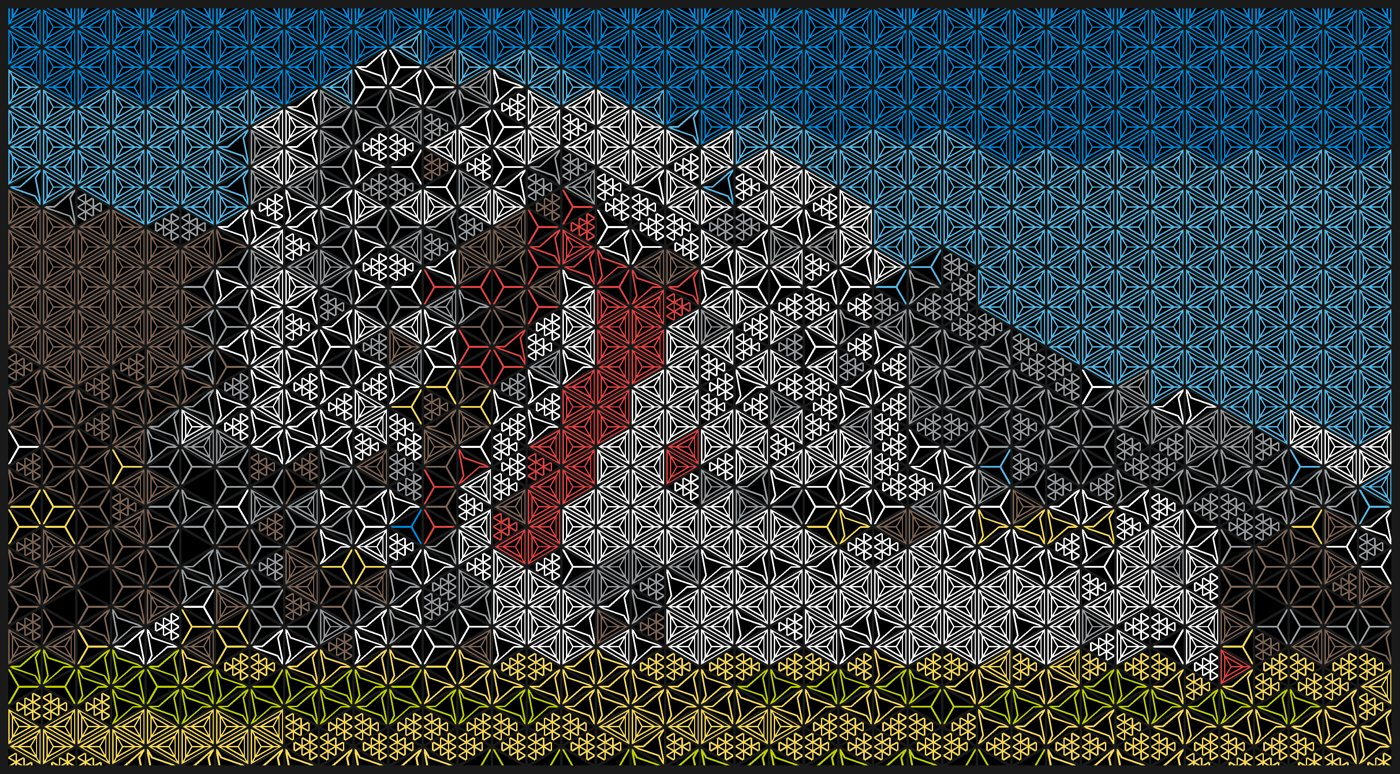
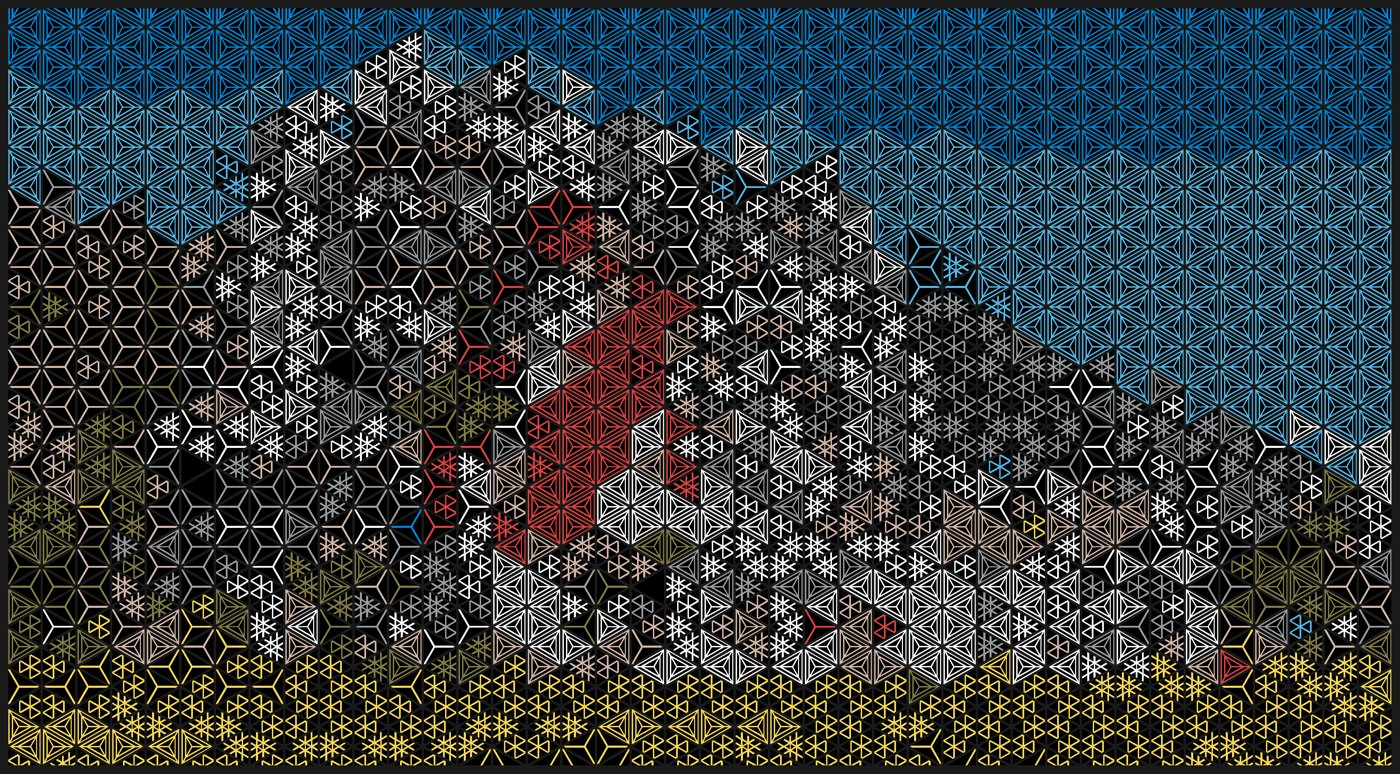
Keep thin contrasting features: line boost in cell sampling (default 4)
Averaging a cell erased cables, masts and outlines thinner than a cell. If a small part of
a cell differs sharply from its median colour, the cell is pushed towards that colour so the
feature survives as a one-cell line. Exposed as --line-boost / UI field; gallery rebuilt.

diff --git a/examples/gallery/index.html b/examples/gallery/index.html
@@ -2,26 +2,26 @@
 <style>body{font-family:system-ui;background:#1b1b1f;color:#eee;margin:20px} .card{margin-bottom:40px}
 .row{display:flex;gap:12px;align-items:flex-start;flex-wrap:wrap} img{max-width:46vw;max-height:70vh;border-radius:6px}
 h2{color:#d2ac86} .meta{font-size:13px;color:#bbb} .sw{display:inline-block;width:12px;height:12px;border:1px solid #666;margin-right:2px}</style></head><body>
-<h1>Before / after</h1><p class='meta'>Left: source as fitted to the lattice. Right: the planned panel drawn with the real insert silhouettes. Every insert is a kumiko line pattern (2 mm strips, openings at least 2.5 mm, at most 65% covered) in one of 8 purchasable Bambu PLA filaments over a black background insert, in a dark frame; a cell's tone comes only from line density. At most 4 distinct patterns per panel. Shown at 40 and 60 columns; the mm size follows the pitch (50 mm here). Rule of thumb: 40 columns reads from across a room, 60 is clearly the picture. Simple, bold subjects work best.</p>
+<h1>Before / after</h1><p class='meta'>Left: source as fitted to the lattice. Right: the planned panel drawn with the real insert silhouettes. Every insert is a kumiko line pattern (2 mm strips, openings at least 2.5 mm, at most 65% covered) in one of 8 purchasable Bambu PLA filaments over a black background insert, in a dark frame; a cell's tone comes only from line density. At most 4 distinct patterns per panel; thin-feature boost 4. Shown at 40 and 60 columns; the mm size follows the pitch (50 mm here). Rule of thumb: 40 columns reads from across a room, 60 is clearly the picture. Simple, bold subjects work best.</p>
 <h2>Line patterns available at 50 mm pitch</h2><img src='density_ladder.png' style='max-width:96vw'>
 <div class='card'><h2>golden_gate_bridge</h2>
-<h3 style='font-size:14px'>default_40cols: 40 x 26, 1747.1 x 1318.0 mm, 2120 cells, 2062 pattern inserts <span class='sw' style='background:#FFFFFF'></span><span class='sw' style='background:#A3D8E1'></span><span class='sw' style='background:#5B6579'></span><span class='sw' style='background:#757575'></span><span class='sw' style='background:#9D432C'></span><span class='sw' style='background:#56B7E6'></span><span class='sw' style='background:#E8DBB7'></span><span class='sw' style='background:#FF6A13'></span></h3><div class='row'><img src='golden_gate_bridge_source.jpg'><img src='golden_gate_bridge_default_40cols.jpg'></div>
-<h3 style='font-size:14px'>60cols: 60 x 39, 2613.1 x 1968.0 mm, 4740 cells, 4672 pattern inserts <span class='sw' style='background:#FFFFFF'></span><span class='sw' style='background:#A3D8E1'></span><span class='sw' style='background:#5B6579'></span><span class='sw' style='background:#56B7E6'></span><span class='sw' style='background:#E8DBB7'></span><span class='sw' style='background:#C12E1F'></span><span class='sw' style='background:#4D3324'></span><span class='sw' style='background:#FF6A13'></span></h3><div class='row'><img src='golden_gate_bridge_source.jpg'><img src='golden_gate_bridge_60cols.jpg'></div>
+<h3 style='font-size:14px'>default_40cols: 40 x 26, 1747.1 x 1318.0 mm, 2120 cells, 2086 pattern inserts <span class='sw' style='background:#FFFFFF'></span><span class='sw' style='background:#A3D8E1'></span><span class='sw' style='background:#5B6579'></span><span class='sw' style='background:#C12E1F'></span><span class='sw' style='background:#E8DBB7'></span><span class='sw' style='background:#56B7E6'></span><span class='sw' style='background:#9D432C'></span><span class='sw' style='background:#F99963'></span></h3><div class='row'><img src='golden_gate_bridge_source.jpg'><img src='golden_gate_bridge_default_40cols.jpg'></div>
+<h3 style='font-size:14px'>60cols: 60 x 39, 2613.1 x 1968.0 mm, 4740 cells, 4631 pattern inserts <span class='sw' style='background:#FFFFFF'></span><span class='sw' style='background:#A3D8E1'></span><span class='sw' style='background:#5B6579'></span><span class='sw' style='background:#E8DBB7'></span><span class='sw' style='background:#56B7E6'></span><span class='sw' style='background:#9D432C'></span><span class='sw' style='background:#C12E1F'></span><span class='sw' style='background:#FF6A13'></span></h3><div class='row'><img src='golden_gate_bridge_source.jpg'><img src='golden_gate_bridge_60cols.jpg'></div>
 </div>
 <div class='card'><h2>lighthouse</h2>
-<h3 style='font-size:14px'>default_40cols: 40 x 19, 1747.1 x 968.0 mm, 1560 cells, 1555 pattern inserts <span class='sw' style='background:#FFFFFF'></span><span class='sw' style='background:#0086D6'></span><span class='sw' style='background:#56B7E6'></span><span class='sw' style='background:#9B9EA0'></span><span class='sw' style='background:#F7D959'></span><span class='sw' style='background:#7D6556'></span><span class='sw' style='background:#BECF00'></span><span class='sw' style='background:#DE4343'></span></h3><div class='row'><img src='lighthouse_source.jpg'><img src='lighthouse_default_40cols.jpg'></div>
-<h3 style='font-size:14px'>60cols: 60 x 29, 2613.1 x 1468.0 mm, 3540 cells, 3511 pattern inserts <span class='sw' style='background:#FFFFFF'></span><span class='sw' style='background:#0086D6'></span><span class='sw' style='background:#56B7E6'></span><span class='sw' style='background:#F7D959'></span><span class='sw' style='background:#757575'></span><span class='sw' style='background:#D3B7A7'></span><span class='sw' style='background:#BECF00'></span><span class='sw' style='background:#DE4343'></span></h3><div class='row'><img src='lighthouse_source.jpg'><img src='lighthouse_60cols.jpg'></div>
+<h3 style='font-size:14px'>default_40cols: 40 x 19, 1747.1 x 968.0 mm, 1560 cells, 1556 pattern inserts <span class='sw' style='background:#FFFFFF'></span><span class='sw' style='background:#0086D6'></span><span class='sw' style='background:#56B7E6'></span><span class='sw' style='background:#9B9EA0'></span><span class='sw' style='background:#F7D959'></span><span class='sw' style='background:#D3B7A7'></span><span class='sw' style='background:#847D48'></span><span class='sw' style='background:#DE4343'></span></h3><div class='row'><img src='lighthouse_source.jpg'><img src='lighthouse_default_40cols.jpg'></div>
+<h3 style='font-size:14px'>60cols: 60 x 29, 2613.1 x 1468.0 mm, 3540 cells, 3528 pattern inserts <span class='sw' style='background:#FFFFFF'></span><span class='sw' style='background:#56B7E6'></span><span class='sw' style='background:#0086D6'></span><span class='sw' style='background:#D3B7A7'></span><span class='sw' style='background:#F7D959'></span><span class='sw' style='background:#757575'></span><span class='sw' style='background:#BECF00'></span><span class='sw' style='background:#DE4343'></span></h3><div class='row'><img src='lighthouse_source.jpg'><img src='lighthouse_60cols.jpg'></div>
 </div>
 <div class='card'><h2>red_fuji</h2>
-<h3 style='font-size:14px'>default_40cols: 40 x 23, 1747.1 x 1168.0 mm, 1880 cells, 1859 pattern inserts <span class='sw' style='background:#FF6A13'></span><span class='sw' style='background:#FFFFFF'></span><span class='sw' style='background:#68724D'></span><span class='sw' style='background:#0056B8'></span><span class='sw' style='background:#A3D8E1'></span><span class='sw' style='background:#56B7E6'></span><span class='sw' style='background:#0086D6'></span><span class='sw' style='background:#F99963'></span></h3><div class='row'><img src='red_fuji_source.jpg'><img src='red_fuji_default_40cols.jpg'></div>
-<h3 style='font-size:14px'>60cols: 60 x 35, 2613.1 x 1768.0 mm, 4260 cells, 4201 pattern inserts <span class='sw' style='background:#FFFFFF'></span><span class='sw' style='background:#FF6A13'></span><span class='sw' style='background:#0056B8'></span><span class='sw' style='background:#8E9089'></span><span class='sw' style='background:#56B7E6'></span><span class='sw' style='background:#E8DBB7'></span><span class='sw' style='background:#0086D6'></span><span class='sw' style='background:#F99963'></span></h3><div class='row'><img src='red_fuji_source.jpg'><img src='red_fuji_60cols.jpg'></div>
+<h3 style='font-size:14px'>default_40cols: 40 x 23, 1747.1 x 1168.0 mm, 1880 cells, 1879 pattern inserts <span class='sw' style='background:#FF6A13'></span><span class='sw' style='background:#0086D6'></span><span class='sw' style='background:#A3D8E1'></span><span class='sw' style='background:#FFFFFF'></span><span class='sw' style='background:#0056B8'></span><span class='sw' style='background:#545454'></span><span class='sw' style='background:#E8DBB7'></span><span class='sw' style='background:#F99963'></span></h3><div class='row'><img src='red_fuji_source.jpg'><img src='red_fuji_default_40cols.jpg'></div>
+<h3 style='font-size:14px'>60cols: 60 x 35, 2613.1 x 1768.0 mm, 4260 cells, 4248 pattern inserts <span class='sw' style='background:#FF6A13'></span><span class='sw' style='background:#FFFFFF'></span><span class='sw' style='background:#0056B8'></span><span class='sw' style='background:#0086D6'></span><span class='sw' style='background:#A3D8E1'></span><span class='sw' style='background:#545454'></span><span class='sw' style='background:#E8DBB7'></span><span class='sw' style='background:#F99963'></span></h3><div class='row'><img src='red_fuji_source.jpg'><img src='red_fuji_60cols.jpg'></div>
 </div>
 <div class='card'><h2>starry_night</h2>
-<h3 style='font-size:14px'>default_40cols: 40 x 27, 1747.1 x 1368.0 mm, 2200 cells, 2200 pattern inserts <span class='sw' style='background:#0086D6'></span><span class='sw' style='background:#56B7E6'></span><span class='sw' style='background:#545454'></span><span class='sw' style='background:#0056B8'></span><span class='sw' style='background:#A3D8E1'></span><span class='sw' style='background:#FFFFFF'></span><span class='sw' style='background:#C2E189'></span><span class='sw' style='background:#F4EE2A'></span></h3><div class='row'><img src='starry_night_source.jpg'><img src='starry_night_default_40cols.jpg'></div>
-<h3 style='font-size:14px'>60cols: 60 x 41, 2613.1 x 2068.0 mm, 4980 cells, 4975 pattern inserts <span class='sw' style='background:#0086D6'></span><span class='sw' style='background:#545454'></span><span class='sw' style='background:#56B7E6'></span><span class='sw' style='background:#0056B8'></span><span class='sw' style='background:#A3D8E1'></span><span class='sw' style='background:#FFFFFF'></span><span class='sw' style='background:#C2E189'></span><span class='sw' style='background:#F4EE2A'></span></h3><div class='row'><img src='starry_night_source.jpg'><img src='starry_night_60cols.jpg'></div>
+<h3 style='font-size:14px'>default_40cols: 40 x 27, 1747.1 x 1368.0 mm, 2200 cells, 2192 pattern inserts <span class='sw' style='background:#0086D6'></span><span class='sw' style='background:#56B7E6'></span><span class='sw' style='background:#A3D8E1'></span><span class='sw' style='background:#8E9089'></span><span class='sw' style='background:#0056B8'></span><span class='sw' style='background:#5B6579'></span><span class='sw' style='background:#C2E189'></span><span class='sw' style='background:#F4EE2A'></span></h3><div class='row'><img src='starry_night_source.jpg'><img src='starry_night_default_40cols.jpg'></div>
+<h3 style='font-size:14px'>60cols: 60 x 41, 2613.1 x 2068.0 mm, 4980 cells, 4977 pattern inserts <span class='sw' style='background:#0086D6'></span><span class='sw' style='background:#56B7E6'></span><span class='sw' style='background:#A3D8E1'></span><span class='sw' style='background:#545454'></span><span class='sw' style='background:#0056B8'></span><span class='sw' style='background:#E8DBB7'></span><span class='sw' style='background:#C2E189'></span><span class='sw' style='background:#F4EE2A'></span></h3><div class='row'><img src='starry_night_source.jpg'><img src='starry_night_60cols.jpg'></div>
 </div>
 <div class='card'><h2>sunflower</h2>
-<h3 style='font-size:14px'>default_40cols: 40 x 23, 1747.1 x 1168.0 mm, 1880 cells, 1847 pattern inserts <span class='sw' style='background:#FFFFFF'></span><span class='sw' style='background:#0086D6'></span><span class='sw' style='background:#5E43B7'></span><span class='sw' style='background:#FF9016'></span><span class='sw' style='background:#3F8E43'></span><span class='sw' style='background:#F4EE2A'></span><span class='sw' style='background:#56B7E6'></span><span class='sw' style='background:#FEC600'></span></h3><div class='row'><img src='sunflower_source.jpg'><img src='sunflower_default_40cols.jpg'></div>
-<h3 style='font-size:14px'>60cols: 60 x 35, 2613.1 x 1768.0 mm, 4260 cells, 4167 pattern inserts <span class='sw' style='background:#FFFFFF'></span><span class='sw' style='background:#0086D6'></span><span class='sw' style='background:#FF9016'></span><span class='sw' style='background:#5E43B7'></span><span class='sw' style='background:#3F8E43'></span><span class='sw' style='background:#F4EE2A'></span><span class='sw' style='background:#56B7E6'></span><span class='sw' style='background:#FEC600'></span></h3><div class='row'><img src='sunflower_source.jpg'><img src='sunflower_60cols.jpg'></div>
+<h3 style='font-size:14px'>default_40cols: 40 x 23, 1747.1 x 1168.0 mm, 1880 cells, 1850 pattern inserts <span class='sw' style='background:#0086D6'></span><span class='sw' style='background:#FFFFFF'></span><span class='sw' style='background:#5E43B7'></span><span class='sw' style='background:#FF9016'></span><span class='sw' style='background:#3F8E43'></span><span class='sw' style='background:#F4EE2A'></span><span class='sw' style='background:#FEC600'></span><span class='sw' style='background:#C2E189'></span></h3><div class='row'><img src='sunflower_source.jpg'><img src='sunflower_default_40cols.jpg'></div>
+<h3 style='font-size:14px'>60cols: 60 x 35, 2613.1 x 1768.0 mm, 4260 cells, 4171 pattern inserts <span class='sw' style='background:#0086D6'></span><span class='sw' style='background:#FFFFFF'></span><span class='sw' style='background:#5E43B7'></span><span class='sw' style='background:#FF9016'></span><span class='sw' style='background:#F4EE2A'></span><span class='sw' style='background:#3F8E43'></span><span class='sw' style='background:#56B7E6'></span><span class='sw' style='background:#FEC600'></span></h3><div class='row'><img src='sunflower_source.jpg'><img src='sunflower_60cols.jpg'></div>
 </div>
 </body></html>

diff --git a/web/index.html b/web/index.html
@@ -52,6 +52,7 @@
    <div><label>Fit</label><select name="fit"><option>cover</option><option>contain</option><option>stretch</option></select></div>
    <div><label>Auto colours (if no palette)</label><input type="number" name="max_colors" value="8" min="1" max="12"></div>
    <div><label>Enhance contrast/saturation</label><select name="enhance"><option value="true">yes</option><option value="false">no</option></select></div>
+   <div><label>Thin-feature boost (0 off, 8 strong)</label><input type="number" step="1" name="line_boost" value="4" min="0" max="12"></div>
   </div>
   <label>Filaments you own (one per line: name=#hex). Empty = pick from a purchasable catalogue:</label>
   <select name="filament_set"><option value="bambu">Bambu PLA Matte + Basic (55 colours)</option><option value="bambu-matte">Bambu PLA Matte only</option><option value="bambu-basic">Bambu PLA Basic only</option></select>

diff --git a/kumiko_mosaic/imagemap.py b/kumiko_mosaic/imagemap.py
@@ -169,8 +169,15 @@ def fit_image(img: Image.Image, target_w: float, target_h: float, mode: str = "c
     return out, px_per_mm
 
 
-def sample_cells(grid: Grid, fitted: Image.Image, px_per_mm: float, shrink: float = 0.85) -> None:
-    """Set cell.rgb_mean = mean colour inside each (slightly shrunken) cell polygon."""
+def sample_cells(grid: Grid, fitted: Image.Image, px_per_mm: float, shrink: float = 0.85,
+                 line_boost: float = 0.0, line_min_delta: float = 22.0) -> None:
+    """Set cell.rgb_mean = mean colour inside each (slightly shrunken) cell polygon.
+
+    line_boost > 0 keeps thin, strongly contrasting features (cables, masts, outlines) that
+    plain averaging would erase: pixels in the cell that differ from the cell's median colour by
+    more than line_min_delta (CIELAB) are treated as a feature; if they cover a fraction f of
+    the cell, the cell colour is pushed from the median towards the feature colour by
+    min(1, f * line_boost). With line_boost = 6 a feature covering 1/6 of the cell takes it over."""
     arr = np.asarray(fitted, dtype=np.float64)
     H, W = arr.shape[:2]
     for c in grid.cells:
@@ -190,8 +197,20 @@ def sample_cells(grid: Grid, fitted: Image.Image, px_per_mm: float, shrink: floa
         if not m.any():
             px = arr[min(H - 1, int(cy * px_per_mm)), min(W - 1, int(cx * px_per_mm))]
             c.rgb_mean = tuple(float(v) for v in px)
-        else:
-            c.rgb_mean = tuple(float(v) for v in arr[y0:y1, x0:x1][m].mean(0))
+            continue
+        pix = arr[y0:y1, x0:x1][m]
+        mean = pix.mean(0)
+        if line_boost > 0 and len(pix) >= 16:
+            med = np.median(pix, axis=0)
+            lab = rgb_to_lab(pix)
+            d = np.sqrt(((lab - rgb_to_lab(med)) ** 2).sum(1))
+            feat = d > line_min_delta
+            f = feat.mean()
+            if 0.02 < f < 0.5:
+                feat_col = pix[feat].mean(0)
+                w = min(1.0, f * line_boost)
+                mean = med + (feat_col - med) * w
+        c.rgb_mean = tuple(float(v) for v in mean)
 
 
 def assign_colors(grid: Grid, palette: Optional[List[Filament]] = None, max_colors: int = 4,

diff --git a/kumiko_mosaic/cli.py b/kumiko_mosaic/cli.py
@@ -36,6 +36,8 @@ def build_parser() -> argparse.ArgumentParser:
     s.add_argument("--measure", choices=["outer", "lattice"], default="outer")
     i = ap.add_argument_group("image and colour")
     i.add_argument("--fit", choices=["cover", "contain", "stretch"], default="cover")
+    i.add_argument("--line-boost", type=float, default=4.0,
+                   help="keep thin contrasting features that averaging erases (cables, masts); 4-8 is strong, 0 = off")
     i.add_argument("--palette", nargs="*", default=[], help='filaments you own: "name=#RRGGBB" ... (empty = auto)')
     i.add_argument("--max-colors", type=int, default=8)
     i.add_argument("--filament-set", choices=["bambu", "bambu-matte", "bambu-basic"], default="bambu",
@@ -84,7 +86,7 @@ def main(argv=None) -> int:
     bed = a.bed if len(a.bed) == 2 else [a.bed[0], a.bed[0]]
     params = Params(pitch=a.pitch, mitsuke=a.mitsuke, border=a.border, orientation=a.orientation,
                     width_mm=a.width_mm, height_mm=a.height_mm, cols=a.cols, rows=a.rows,
-                    max_cells=a.max_cells, measure=a.measure, fit=a.fit, palette=a.palette,
+                    max_cells=a.max_cells, measure=a.measure, fit=a.fit, line_boost=a.line_boost, palette=a.palette,
                     max_colors=a.max_colors, filament_set=a.filament_set, dither=a.dither, enhance=not a.no_enhance, color_layer=a.color_layer,
                     background_color=a.background_color, pattern_color=a.pattern_color, frame_color=a.frame_color,
                     pattern_mode=a.pattern_mode, max_patterns=a.max_patterns, min_hole_mm=a.min_hole, color_pattern_map=json.loads(a.color_pattern_map),

diff --git a/kumiko_mosaic/pipeline.py b/kumiko_mosaic/pipeline.py
@@ -33,6 +33,7 @@ class Params:
     fit: str = "cover"
     enhance: bool = True                   # autocontrast + mild saturation boost before sampling
     sample_shrink: float = 0.85
+    line_boost: float = 4.0                # keep thin contrasting features (cables, masts); 0 = off, 8 = strong
     # colours
     palette: List[str] = field(default_factory=list)   # filaments you own ("Name=#hex"); empty -> pick from filament_set
     filament_set: str = "bambu"            # purchasable catalogue to pick from: bambu | bambu-matte | bambu-basic
@@ -85,7 +86,7 @@ def run(image_path: str, out_dir: str, params: Params) -> dict:
     patf = _split_named(params.pattern_color)
     fitted, ppm = fit_image(img, grid.lattice_width, grid.lattice_height, params.fit, background=bgf.hex,
                             enhance=params.enhance)
-    sample_cells(grid, fitted, ppm, params.sample_shrink)
+    sample_cells(grid, fitted, ppm, params.sample_shrink, line_boost=params.line_boost)
     palette = parse_palette(params.palette) if params.palette else None
     coverage = None
     if params.pattern_mode.startswith("auto") and params.color_layer == "pattern":

diff --git a/README.md b/README.md
@@ -139,6 +139,10 @@ dense patterns survive the `--min-hole` test (at 30 mm only `y, asanoha, mesh2, 
 * `--color-layer background --pattern-mode none` makes a flat triangle mosaic instead; `both`
   colours both layers.
 * Images are auto-contrasted and slightly saturated before sampling (`--no-enhance` to skip).
+* `--line-boost 4` (default) keeps thin, strongly contrasting features that plain averaging
+  erases: if a small part of a cell differs sharply from the rest (a cable, a mast, an
+  outline), the cell takes that colour, so the feature survives as a one-cell line. 0 turns it
+  off, 8 is aggressive and can add speckle in textured areas.
 * `--dither` adds error diffusion (smoother gradients, noisier look).
 
 Look at `examples/gallery/index.html` (also served at `/gallery` by the web app): before/after
